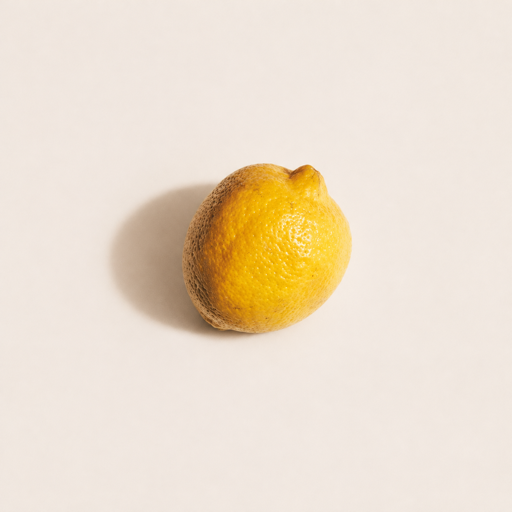
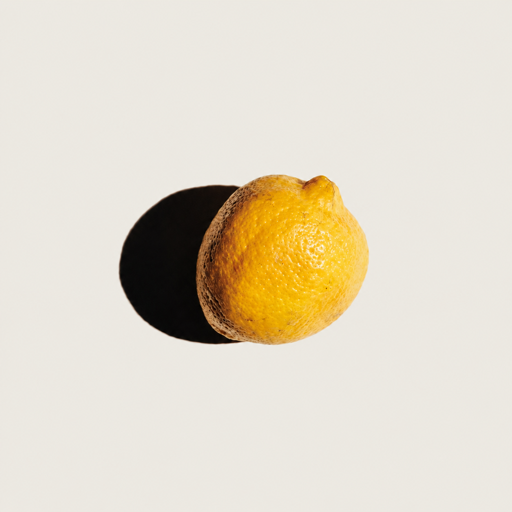
Add files via upload

Changed region(s): [[0.1875, 0.3125, 0.7188, 0.6875]]

diff --git a/index.html b/index.html
@@ -1,1 +1,1 @@
-<!doctype html><html lang="zh-CN"><head><meta charset="UTF-8"><meta name="viewport" content="width=device-width, initial-scale=1, maximum-scale=1, user-scalable=no, viewport-fit=cover"><meta name="theme-color" content="#f8f7f3"><meta name="apple-mobile-web-app-capable" content="yes"><meta name="apple-mobile-web-app-status-bar-style" content="default"><meta name="apple-mobile-web-app-title" content="柠檬账本"><meta name="description" content="轻盈、私密、免费的个人记账本"><link rel="manifest" href="./manifest.webmanifest"><link rel="icon" href="./icon-192.png"><link rel="apple-touch-icon" href="./icon-192.png"><title>柠檬账本 · 把日子记清楚</title><link rel="stylesheet" href="./style.css"></head><body><div id="app"></div><div id="modal-root"></div><input id="import-file" type="file" accept=".json,application/json" hidden><script defer src="./app.js"></script></body></html>
+<!doctype html><html lang="zh-CN"><head><meta charset="UTF-8"><meta name="viewport" content="width=device-width, initial-scale=1, maximum-scale=1, user-scalable=no, viewport-fit=cover"><meta name="theme-color" content="#f8f7f3"><meta name="apple-mobile-web-app-capable" content="yes"><meta name="apple-mobile-web-app-status-bar-style" content="default"><meta name="apple-mobile-web-app-title" content="Lemon Ledger"><meta name="description" content="轻盈、私密、免费的个人记账本"><link rel="manifest" href="./manifest.webmanifest"><link rel="icon" href="./icon-192.png"><link rel="apple-touch-icon" href="./icon-192.png"><title>Lemon Ledger</title><link rel="stylesheet" href="./style.css"></head><body><div id="app"></div><div id="modal-root"></div><input id="import-file" type="file" accept=".json,application/json" hidden><script defer src="./app.js"></script></body></html>

diff --git a/style.css b/style.css
@@ -199,3 +199,10 @@ html[data-background="white"] .ledger-view-switch button.active{background:#fff!
 .budget-progress{position:relative;overflow:visible}
 .budget-progress span{position:relative}
 .budget-progress span:after{content:"";position:absolute;right:-13px;top:50%;width:27px;height:27px;transform:translateY(-50%);background:url('./lemon-transparent.png') center/contain no-repeat;filter:drop-shadow(0 2px 3px rgba(70,54,18,.18));z-index:2;pointer-events:none}
+
+/* v47: keep native iOS date controls clear of the category selector. */
+@media(max-width:480px){
+  .rule-start-category-grid{grid-template-columns:1fr;gap:0}
+  .rule-start-category-grid .form-field{margin:9px 0}
+  .rule-start-category-grid input[type="date"]{width:100%;min-width:0;max-width:100%}
+}

diff --git a/sw.js b/sw.js
@@ -1,4 +1,4 @@
-const CACHE='lemon-ledger-v46';
+const CACHE='lemon-ledger-v47';
 const ASSETS=['./','./index.html','./style.css','./app.js','./manifest.webmanifest','./icon-192.png','./icon-512.png','./app-icon-v38.png','./lemon-transparent.png','./fig-transparent.png','./tomato-transparent.png','./category-cats-v25.png','./category-plain-v27.png','./category-extra-v28.png'];
 self.addEventListener('install',e=>{e.waitUntil(caches.open(CACHE).then(c=>c.addAll(ASSETS)));self.skipWaiting()});
 self.addEventListener('activate',e=>{e.waitUntil(caches.keys().then(keys=>Promise.all(keys.filter(k=>k!==CACHE).map(k=>caches.delete(k)))));self.clients.claim()});
